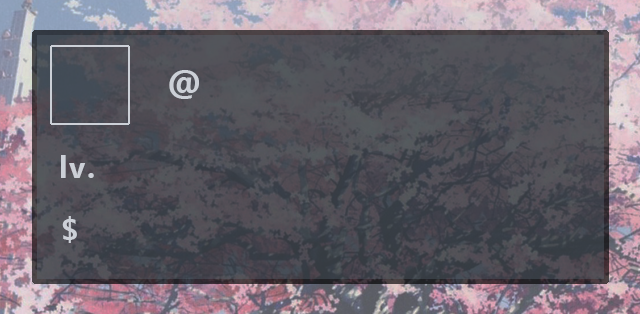
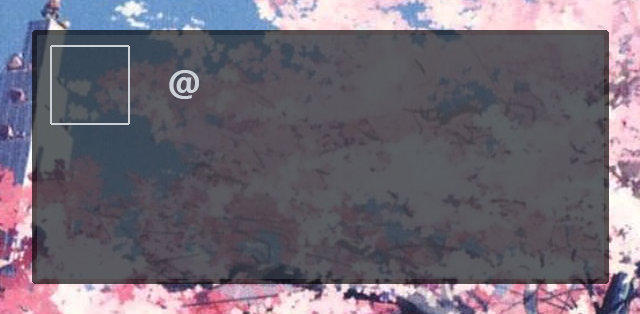
Change profile img to remove lvl field

diff --git a/plugins/user.js b/plugins/user.js
@@ -25,7 +25,7 @@ module.exports = function(passthrough) {
 				let ctx = canvas.getContext("2d", { alpha: false });
 				var pfpurl =(member.user.avatar)?`https://cdn.discordapp.com/avatars/${member.user.id}/${member.user.avatar}.png?size=128`: member.user.defaultAvatarURL
 				Promise.all([
-					new Promise(resolve => require("request")(pfpurl, {encoding: null}, (e,r,b) => resolve(b))),
+					new Promise(resolve => require("request")(pfpurl, { encoding: null }, (e,r,b) => resolve(b))),
 					util.promisify(fs.readFile)("./images/profile.png", { encoding: null })
 				]).then(async ([avatar, template]) => {
 					let templateI = new Canvas.Image();
@@ -37,8 +37,7 @@ module.exports = function(passthrough) {
 					ctx.font = "bold 25px 'Whitney'";
 					ctx.fillStyle = "white"
 					ctx.fillText(member.user.tag, 205, 93);
-					ctx.fillText(money.coins, 90, 239);
-					ctx.fillText("0", 110, 178)
+					ctx.fillText(`$ ${money.coins}`, 90, 239);
 					let buffer = canvas.toBuffer();
 					await msg.channel.send({files: [buffer]});
 				});
